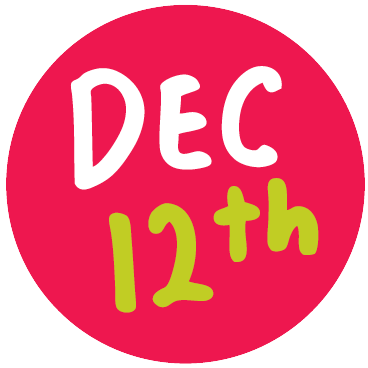
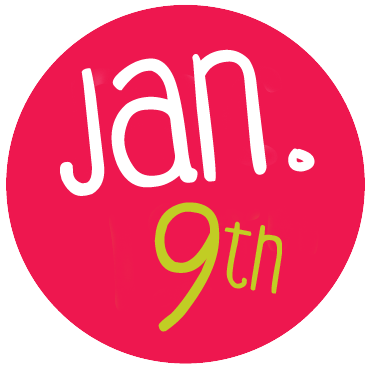
changed date

Changed region(s): [[0.1495, 0.1196, 0.8668, 0.8967], [0.2989, 0.5679, 0.3886, 0.8668]]

diff --git a/resources/views/home.blade.php b/resources/views/home.blade.php
@@ -7,7 +7,7 @@
 
             <div class="row">
                 <div class="col-md-9">
-                    <p>The 1st Annual Tinsel and Tennis Shoes 5K race has a little something for everyone-- with a competitive 5K race or a 5K fun walk through the neighborhood, and a festive costume contest. Come on out and celebrate the Christmas Holidays with us!</p>
+                    <p>The 1st Annual Tinsel and Tennis Shoes 5K race has a little something for everyone. The run and walk will be held on Saturday, January 9th, 2016 at 9 a.m. and will feature a competitive 5K race or a 5K fun walk through the neighborhood, and a festive costume contest. Come on out and spread holiday cheer into the New Year with us!</p>
                     <p>100% of the proceeds raised from this event will go <a href="http://changetheworldrva.org">Change the World RVA</a>, a 501 3c that supports homeless high school youth in Richmond. Your registration will serve as a donation that will help change the lives of homeless youth in Richmond, Virginia. All 5K runners receive a holiday ornament, post-race refreshments, a festive post-race awards ceremony, and plenty of picture opportunities with family and friends.</p>
                 </div>
                 <div class="col-md-3 hidden-xs hidden-sm">

diff --git a/resources/views/facts.blade.php b/resources/views/facts.blade.php
@@ -6,6 +6,9 @@
 
  					<h1>Frequently asked questions</h1>
 
+ 					<h3>When and where</h3>
+ 					<p>The fun run/walk will be held January 9th, 2016 at 9 a.m. and starts and ends at Bon Air United Methodist Church, 1645 Buford Rd, N. Chesterfield, Virginia. Although the run starts promptly at 9 a.m., make sure you get there a little early to stretch out and enjoy the festivities!</p>
+
  					<h3>Exactly how far is a 5k?</h3>
  					<p>A 5k is about 3.1 miles!</p>
 
@@ -16,7 +19,7 @@
 					<p>Parking is available at the church in designated areas and on side streets.</p>
 
 					<h3>After the race</h3>
-					<p>There will be delicious refreshments waiting for you at the church when you finish the Tinsel and Tennis Shoes/Run Walk. All participants will receive a holiday ornament and prizes will be awarded for the 1st, 2nd and 3rd place finishers and 1st, 2nd, and 3rd place for the most festive holiday attire.</p>
+					<p>There will be delicious refreshments waiting for you at the church when you finish the Tinsel and Tennis Shoes/Run Walk. All participants will receive a post-run gift and prizes will be awarded for the 1st, 2nd and 3rd place finishers and 1st, 2nd, and 3rd place for the most festive holiday attire.</p>
 
 					<h3>Schedule of events</h3>
 					
